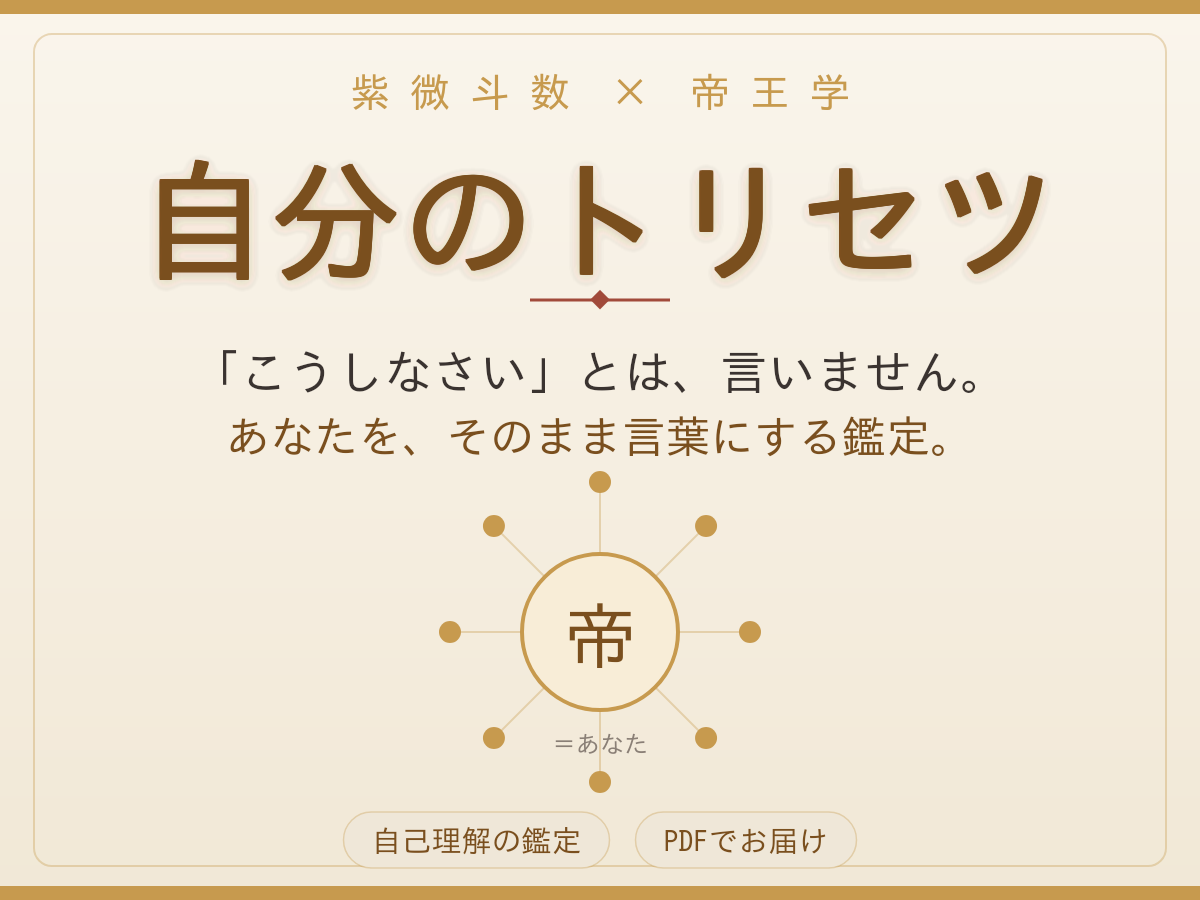
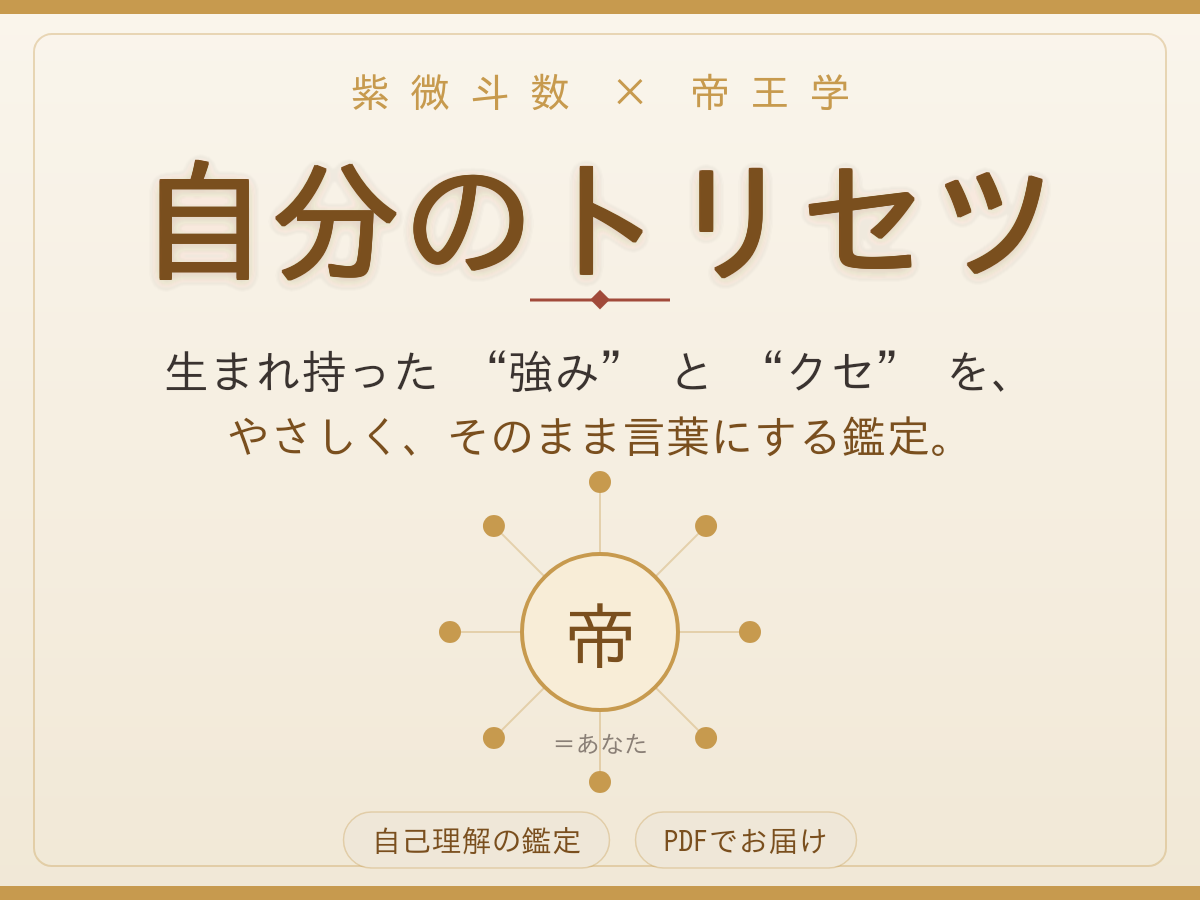
サムネ: フックを前向きな表現に変更(両案)
「こうしなさいとは言わない」(否定形)→「生まれ持った強みとクセを、やさしく、そのまま言葉にする鑑定。」

https://claude.ai/code/session_0172CXQm1wu6DXUCDb2C7L65

Changed region(s): [[0.1233, 0.3733, 0.8325, 0.4356], [0.185, 0.4667, 0.3392, 0.5289]]

diff --git a/uranai-service/src/build-thumbnail.js b/uranai-service/src/build-thumbnail.js
@@ -130,11 +130,11 @@ function buildNight() {
 
   // フック
   ctx.fillStyle = COL.cream;
-  ctx.font = '50px jp';
-  boldText(ctx, '「こうしなさい」とは、言わない。', W / 2, 386, 0.4);
+  ctx.font = '48px jp';
+  boldText(ctx, '生まれ持った “強み” と “クセ” を、', W / 2, 386, 0.4);
   ctx.fillStyle = COL.goldBright;
   ctx.font = '46px jp';
-  ctx.fillText('あなたを “そのまま” 言葉にする鑑定。', W / 2, 450);
+  ctx.fillText('やさしく、そのまま言葉にする鑑定。', W / 2, 450);
 
   // 帝の金印（放射する光線＝サンバースト）
   ctx.save();
@@ -220,8 +220,8 @@ function buildCream() {
   ctx.fillStyle = C.throneInk; ctx.font = '132px jp'; boldText(ctx, '自分のトリセツ', W / 2, 220, 1.2); ctx.restore();
   ctx.strokeStyle = C.vermilion; ctx.lineWidth = 3; ctx.beginPath(); ctx.moveTo(W / 2 - 70, 300); ctx.lineTo(W / 2 + 70, 300); ctx.stroke();
   ctx.fillStyle = C.vermilion; ctx.font = '22px jp'; ctx.fillText('◆', W / 2, 300);
-  ctx.fillStyle = C.ink; ctx.font = '48px jp'; ctx.fillText('「こうしなさい」とは、言いません。', W / 2, 372);
-  ctx.fillStyle = C.throneInk; ctx.font = '44px jp'; ctx.fillText('あなたを、そのまま言葉にする鑑定。', W / 2, 436);
+  ctx.fillStyle = C.ink; ctx.font = '46px jp'; ctx.fillText('生まれ持った “強み” と “クセ” を、', W / 2, 372);
+  ctx.fillStyle = C.throneInk; ctx.font = '44px jp'; ctx.fillText('やさしく、そのまま言葉にする鑑定。', W / 2, 436);
   const ex = W / 2, ey = 632, ringR = 150;
   for (let i = 0; i < 8; i++) {
     const a = -Math.PI / 2 + (i * Math.PI) / 4;